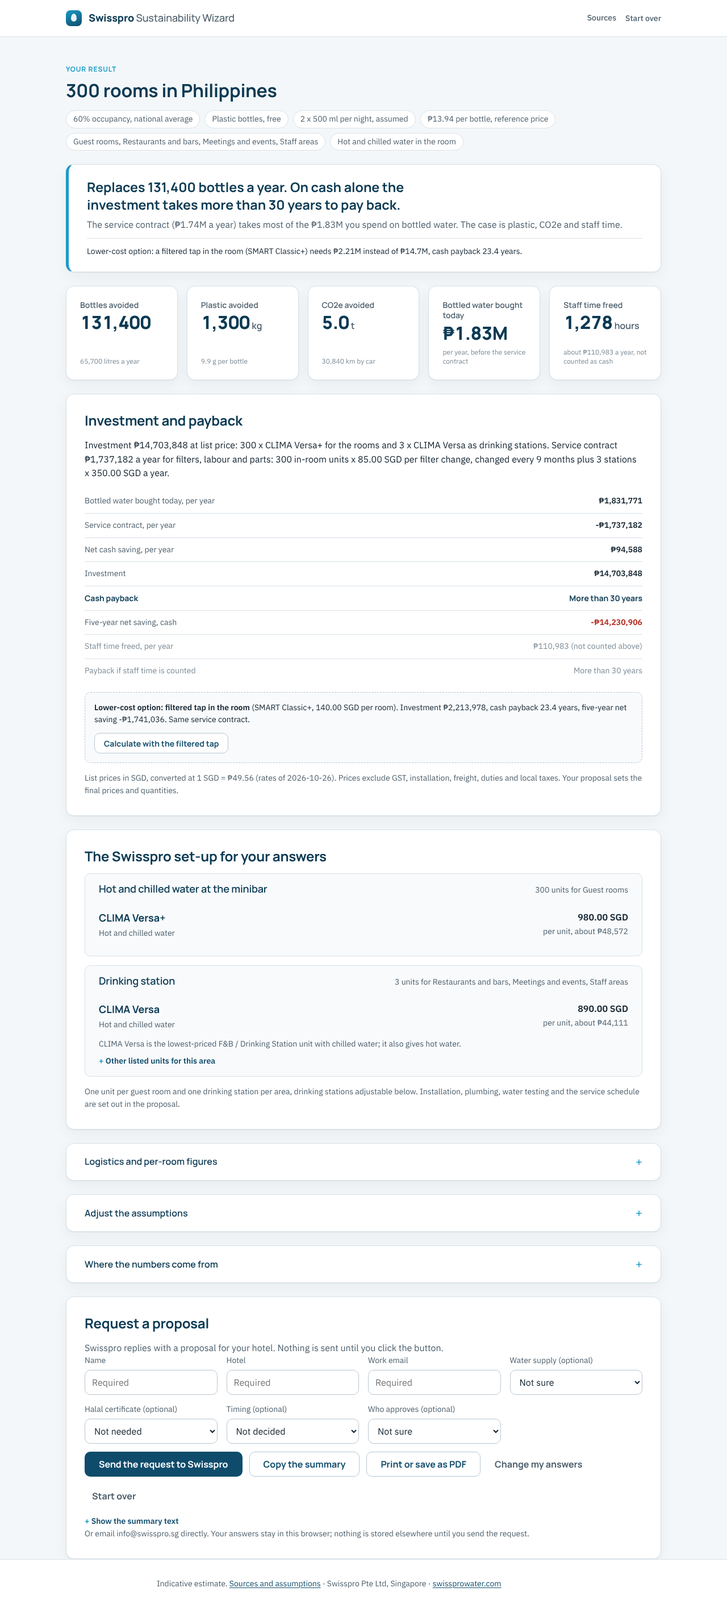
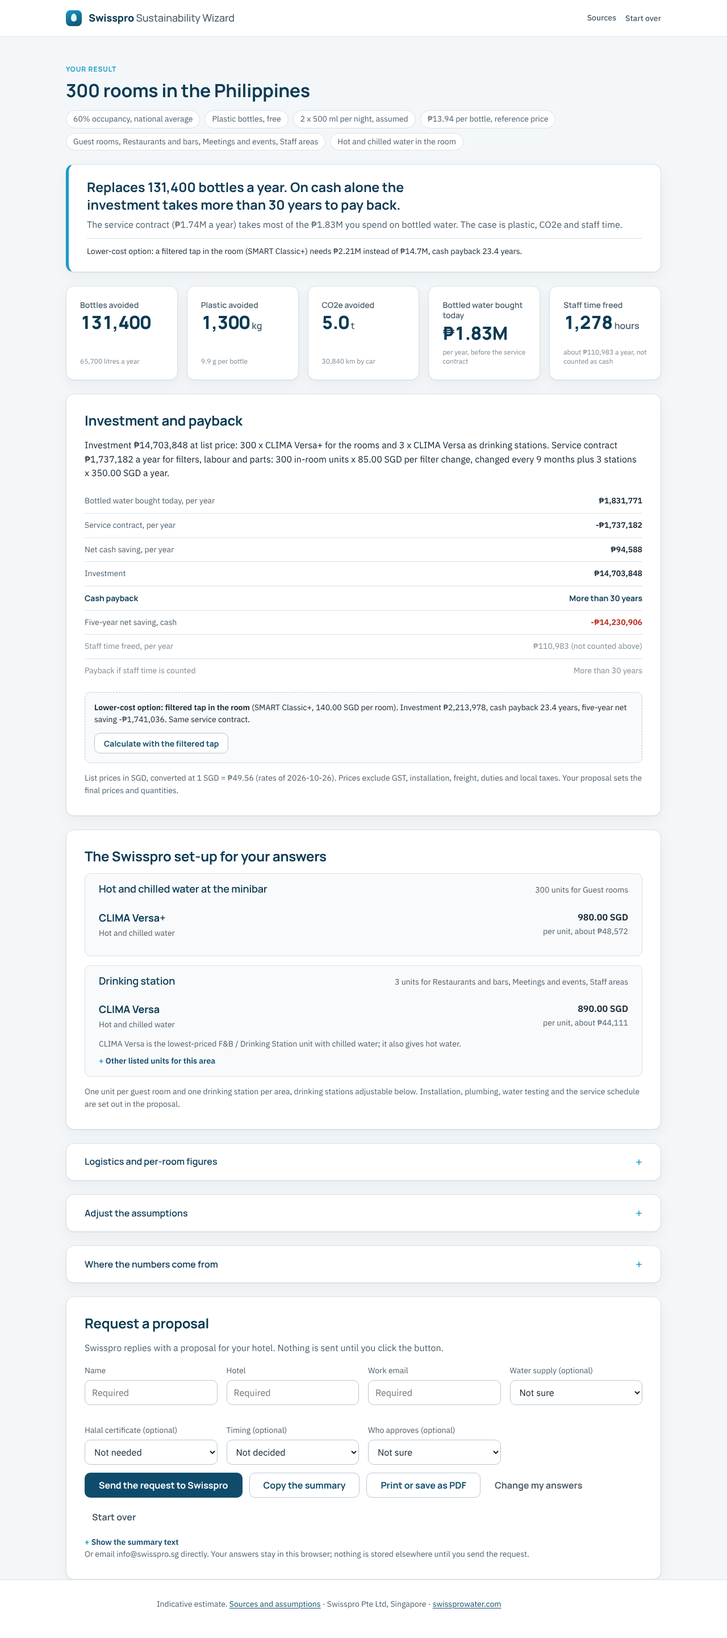
Polish after Manila approval: article for the Philippines, unclipped adjust labels, deploy folder note
Claude-Session: https://claude.ai/code/session_01APodsUFWSb661S1TCdvVpy

diff --git a/artifact/sources.html b/artifact/sources.html
@@ -217,7 +217,7 @@ details.card > .kv { width: calc(100% - 2 * var(--s-6)); margin-top: var(--s-3);
 details.fine > p, details.fine > .actions { margin-top: var(--s-3); }
 .adjust { display: grid; grid-template-columns: repeat(auto-fill, minmax(220px, 1fr)); gap: var(--s-4); }
 .adjust > div { display: grid; gap: var(--s-2); align-content: start; min-width: 0; }
-.adjust label { font-size: var(--fs-sm); color: var(--ink-2); display: block; line-height: 1.3; white-space: nowrap; overflow: hidden; text-overflow: ellipsis; }
+.adjust label { font-size: var(--fs-sm); color: var(--ink-2); display: block; line-height: 1.3; min-height: 2.6em; display: flex; align-items: flex-end; }
 .adjust-4 { grid-template-columns: repeat(4, minmax(0, 1fr)); }
 @media (max-width: 860px) { .adjust-4 { grid-template-columns: repeat(2, minmax(0, 1fr)); } }
 @media (max-width: 460px) { .adjust-4 { grid-template-columns: 1fr; } }
@@ -388,8 +388,8 @@ details.fine summary { font-weight: 600; }
 
     /* ------------------------------------------------------------------ labour */
     working_hours_per_fte_year: { value: 2080, unit: 'hours per full-time employee per year', kind: 'assumption', label: 'Hours per full-time equivalent', note: '40 hours x 52 weeks; used to convert monthly wages to hourly (2080 / 12 = 173.3 h per month) and hours to FTE. Statutory weeks in the region are 40 to 45 h.' },
-    minutes_per_room_per_day_default: { value: 1, unit: 'minutes of housekeeping time per occupied room per day', kind: 'assumption', label: 'Bottle handling time per occupied room', note: 'No published figure exists. Covers restocking bottles from the trolley, removing empties and reloading the trolley. Adjustable (0.5 to 3 min).' },
-    minutes_per_carton_default: { value: 2, unit: 'minutes of receiving, storing and distributing time per carton', kind: 'assumption', label: 'Handling time per carton', note: 'Receiving the delivery, moving cartons to the store and up to floor pantries, opening cartons, disposing of shrink-wrap. Adjustable.' },
+    minutes_per_room_per_day_default: { value: 1, unit: 'minute(s) of housekeeping time per occupied room per day', kind: 'assumption', label: 'Bottle handling time per occupied room', note: 'No published figure exists. Covers restocking bottles from the trolley, removing empties and reloading the trolley. Adjustable (0.5 to 3 min).' },
+    minutes_per_carton_default: { value: 2, unit: 'minute(s) of receiving, storing and distributing time per carton', kind: 'assumption', label: 'Handling time per carton', note: 'Receiving the delivery, moving cartons to the store and up to floor pantries, opening cartons, disposing of shrink-wrap. Adjustable.' },
     bottles_per_room_night_default: {
       value: 2, unit: 'complimentary bottles per occupied room per night', kind: 'assumption', label: 'Bottles per occupied room-night',
       note: 'Industry case studies describe "two bottles a night" (Aquablu, Sheraton Brussels Airport) and "two 750 ml bottles per room per day" (Topia Water model). Fairmont Singapore and Swissotel The Stamford report avoiding 1.5 million bottles a year across 2,030 rooms (about 2 per room per day). All three pages unverified: https://www.aquablu.com/stories/the-future-of-hospitality-embracing-sustainability-in-hotels , https://topiawater.com/case-study-streamline-200/ , https://www.swissotel-singapore-stamford.com/the-hotel/blog/sustainability-at-fairmont-singapore-swissotel-the-stamford/'
@@ -440,7 +440,7 @@ details.fine summary { font-weight: 600; }
       ]
     },
     PH: {
-      code: 'PH', name: 'Philippines', currency: 'PHP', symbol: '₱', decimals: 2,
+      code: 'PH', name: 'the Philippines', currency: 'PHP', symbol: '₱', decimals: 2,
       fx: { value: 1 / 63.453, unit: 'USD per PHP', kind: 'sourced', status: UNVERIFIED, rule: rules.fx,
         source: { publisher: 'Bangko Sentral ng Pilipinas reference rate (via taxcalculator.com.ph)', url: 'https://taxcalculator.com.ph/exchange-rates', quote: 'US$1 = ₱63.4530 on the bulletin of 26 October 2026', year: '2026-10-26', accessed: ACCESSED } },
       occupancy: { value: 0.60, unit: 'average hotel occupancy 2025', kind: 'sourced', status: UNVERIFIED, rule: rules.occupancy,
@@ -477,7 +477,6 @@ details.fine summary { font-weight: 600; }
       minutes_per_carton_default: 'Receiving, storing and distributing one carton.',
       stock_weeks_default: 'Sets the peak number of pallets in the store and the delivery frequency.',
       working_hours_per_fte_year: '40 hours x 52 weeks.',
-      cheap_water_threshold_usd: 'Below this price the result page leads with efficiency instead of cost.'
     };
     var h = '<h2>Calculation factors</h2>';
     Object.keys(F.factors).forEach(function (k) {
@@ -489,7 +488,7 @@ details.fine summary { font-weight: 600; }
     h = '<h2>Market reference values</h2><p class="small muted">Used when you answer "Not sure". Occupancy: the newest official national figure for the latest full year. Labour: the statutory minimum wage in force, so the staff-time value is conservative. Bottle price: the lowest published carton price of a national brand in 500 or 600 ml bottles. Exchange rate: one published US-dollar rate per currency on a reference date in late October 2026.</p>';
     F.marketOrder.filter(function (code) { return code !== 'OTHER'; }).forEach(function (code) {
       var c = F.countries[code];
-      h += '<div class="factor"><h3>' + esc(c.name) + ' (' + esc(c.currency) + ')</h3>';
+      h += '<div class="factor"><h3>' + esc(c.name.charAt(0).toUpperCase() + c.name.slice(1)) + ' (' + esc(c.currency) + ')</h3>';
       h += '<p><strong>Exchange rate:</strong> ' + val(1 / c.fx.value, c.currency + ' per USD') + '</p>' + src(c.fx.source);
       h += '<p><strong>Occupancy:</strong> ' + val(Math.round(c.occupancy.value * 1000) / 10, '%, ' + (c.occupancy.unit || '')) + '</p>' + src(c.occupancy.source);
       h += '<p><strong>Labour cost reference:</strong> ' + val(c.wageMonthly.value, c.wageMonthly.unit) + (c.wageMonthly.label ? ', ' + esc(c.wageMonthly.label) : '') + '</p>' + src(c.wageMonthly.source);
@@ -545,7 +544,6 @@ details.fine summary { font-weight: 600; }
       minutes_per_carton_default: 'Receiving, storing and distributing one carton.',
       stock_weeks_default: 'Sets the peak number of pallets in the store and the delivery frequency.',
       working_hours_per_fte_year: '40 hours x 52 weeks.',
-      cheap_water_threshold_usd: 'Below this price the result page leads with efficiency instead of cost.'
     };
     var h = '<h2>Calculation factors</h2>';
     Object.keys(F.factors).forEach(function (k) {
@@ -557,7 +555,7 @@ details.fine summary { font-weight: 600; }
     h = '<h2>Market reference values</h2><p class="small muted">Used when you answer "Not sure". Occupancy: the newest official national figure for the latest full year. Labour: the statutory minimum wage in force, so the staff-time value is conservative. Bottle price: the lowest published carton price of a national brand in 500 or 600 ml bottles. Exchange rate: one published US-dollar rate per currency on a reference date in late October 2026.</p>';
     F.marketOrder.filter(function (code) { return code !== 'OTHER'; }).forEach(function (code) {
       var c = F.countries[code];
-      h += '<div class="factor"><h3>' + esc(c.name) + ' (' + esc(c.currency) + ')</h3>';
+      h += '<div class="factor"><h3>' + esc(c.name.charAt(0).toUpperCase() + c.name.slice(1)) + ' (' + esc(c.currency) + ')</h3>';
       h += '<p><strong>Exchange rate:</strong> ' + val(1 / c.fx.value, c.currency + ' per USD') + '</p>' + src(c.fx.source);
       h += '<p><strong>Occupancy:</strong> ' + val(Math.round(c.occupancy.value * 1000) / 10, '%, ' + (c.occupancy.unit || '')) + '</p>' + src(c.occupancy.source);
       h += '<p><strong>Labour cost reference:</strong> ' + val(c.wageMonthly.value, c.wageMonthly.unit) + (c.wageMonthly.label ? ', ' + esc(c.wageMonthly.label) : '') + '</p>' + src(c.wageMonthly.source);
@@ -716,7 +714,6 @@ details.fine summary { font-weight: 600; }
       minutes_per_carton_default: 'Receiving, storing and distributing one carton.',
       stock_weeks_default: 'Sets the peak number of pallets in the store and the delivery frequency.',
       working_hours_per_fte_year: '40 hours x 52 weeks.',
-      cheap_water_threshold_usd: 'Below this price the result page leads with efficiency instead of cost.'
     };
     var h = '<h2>Calculation factors</h2>';
     Object.keys(F.factors).forEach(function (k) {
@@ -728,7 +725,7 @@ details.fine summary { font-weight: 600; }
     h = '<h2>Market reference values</h2><p class="small muted">Used when you answer "Not sure". Occupancy: the newest official national figure for the latest full year. Labour: the statutory minimum wage in force, so the staff-time value is conservative. Bottle price: the lowest published carton price of a national brand in 500 or 600 ml bottles. Exchange rate: one published US-dollar rate per currency on a reference date in late October 2026.</p>';
     F.marketOrder.filter(function (code) { return code !== 'OTHER'; }).forEach(function (code) {
       var c = F.countries[code];
-      h += '<div class="factor"><h3>' + esc(c.name) + ' (' + esc(c.currency) + ')</h3>';
+      h += '<div class="factor"><h3>' + esc(c.name.charAt(0).toUpperCase() + c.name.slice(1)) + ' (' + esc(c.currency) + ')</h3>';
       h += '<p><strong>Exchange rate:</strong> ' + val(1 / c.fx.value, c.currency + ' per USD') + '</p>' + src(c.fx.source);
       h += '<p><strong>Occupancy:</strong> ' + val(Math.round(c.occupancy.value * 1000) / 10, '%, ' + (c.occupancy.unit || '')) + '</p>' + src(c.occupancy.source);
       h += '<p><strong>Labour cost reference:</strong> ' + val(c.wageMonthly.value, c.wageMonthly.unit) + (c.wageMonthly.label ? ', ' + esc(c.wageMonthly.label) : '') + '</p>' + src(c.wageMonthly.source);

diff --git a/artifact/wizard.html b/artifact/wizard.html
@@ -213,7 +213,7 @@ details.card > .kv { width: calc(100% - 2 * var(--s-6)); margin-top: var(--s-3);
 details.fine > p, details.fine > .actions { margin-top: var(--s-3); }
 .adjust { display: grid; grid-template-columns: repeat(auto-fill, minmax(220px, 1fr)); gap: var(--s-4); }
 .adjust > div { display: grid; gap: var(--s-2); align-content: start; min-width: 0; }
-.adjust label { font-size: var(--fs-sm); color: var(--ink-2); display: block; line-height: 1.3; white-space: nowrap; overflow: hidden; text-overflow: ellipsis; }
+.adjust label { font-size: var(--fs-sm); color: var(--ink-2); display: block; line-height: 1.3; min-height: 2.6em; display: flex; align-items: flex-end; }
 .adjust-4 { grid-template-columns: repeat(4, minmax(0, 1fr)); }
 @media (max-width: 860px) { .adjust-4 { grid-template-columns: repeat(2, minmax(0, 1fr)); } }
 @media (max-width: 460px) { .adjust-4 { grid-template-columns: 1fr; } }
@@ -388,8 +388,8 @@ details.fine summary { font-weight: 600; }
 
     /* ------------------------------------------------------------------ labour */
     working_hours_per_fte_year: { value: 2080, unit: 'hours per full-time employee per year', kind: 'assumption', label: 'Hours per full-time equivalent', note: '40 hours x 52 weeks; used to convert monthly wages to hourly (2080 / 12 = 173.3 h per month) and hours to FTE. Statutory weeks in the region are 40 to 45 h.' },
-    minutes_per_room_per_day_default: { value: 1, unit: 'minutes of housekeeping time per occupied room per day', kind: 'assumption', label: 'Bottle handling time per occupied room', note: 'No published figure exists. Covers restocking bottles from the trolley, removing empties and reloading the trolley. Adjustable (0.5 to 3 min).' },
-    minutes_per_carton_default: { value: 2, unit: 'minutes of receiving, storing and distributing time per carton', kind: 'assumption', label: 'Handling time per carton', note: 'Receiving the delivery, moving cartons to the store and up to floor pantries, opening cartons, disposing of shrink-wrap. Adjustable.' },
+    minutes_per_room_per_day_default: { value: 1, unit: 'minute(s) of housekeeping time per occupied room per day', kind: 'assumption', label: 'Bottle handling time per occupied room', note: 'No published figure exists. Covers restocking bottles from the trolley, removing empties and reloading the trolley. Adjustable (0.5 to 3 min).' },
+    minutes_per_carton_default: { value: 2, unit: 'minute(s) of receiving, storing and distributing time per carton', kind: 'assumption', label: 'Handling time per carton', note: 'Receiving the delivery, moving cartons to the store and up to floor pantries, opening cartons, disposing of shrink-wrap. Adjustable.' },
     bottles_per_room_night_default: {
       value: 2, unit: 'complimentary bottles per occupied room per night', kind: 'assumption', label: 'Bottles per occupied room-night',
       note: 'Industry case studies describe "two bottles a night" (Aquablu, Sheraton Brussels Airport) and "two 750 ml bottles per room per day" (Topia Water model). Fairmont Singapore and Swissotel The Stamford report avoiding 1.5 million bottles a year across 2,030 rooms (about 2 per room per day). All three pages unverified: https://www.aquablu.com/stories/the-future-of-hospitality-embracing-sustainability-in-hotels , https://topiawater.com/case-study-streamline-200/ , https://www.swissotel-singapore-stamford.com/the-hotel/blog/sustainability-at-fairmont-singapore-swissotel-the-stamford/'
@@ -440,7 +440,7 @@ details.fine summary { font-weight: 600; }
       ]
     },
     PH: {
-      code: 'PH', name: 'Philippines', currency: 'PHP', symbol: '₱', decimals: 2,
+      code: 'PH', name: 'the Philippines', currency: 'PHP', symbol: '₱', decimals: 2,
       fx: { value: 1 / 63.453, unit: 'USD per PHP', kind: 'sourced', status: UNVERIFIED, rule: rules.fx,
         source: { publisher: 'Bangko Sentral ng Pilipinas reference rate (via taxcalculator.com.ph)', url: 'https://taxcalculator.com.ph/exchange-rates', quote: 'US$1 = ₱63.4530 on the bulletin of 26 October 2026', year: '2026-10-26', accessed: ACCESSED } },
       occupancy: { value: 0.60, unit: 'average hotel occupancy 2025', kind: 'sourced', status: UNVERIFIED, rule: rules.occupancy,
@@ -1499,19 +1499,19 @@ details.fine summary { font-weight: 600; }
     var g2 = group('Investment and service');
     field(g2, 'capex', 'Investment (' + inp.currency + ')', o.capex != null ? o.capex : (pr.capexLocal != null ? Math.round(pr.capexLocal) : ''), 1, { placeholder: 'from your proposal' }, (pr.capexSource === 'user' ? 'Your figure' : (pr.capexSource === 'pricelist' ? 'List price' : 'Not in the price list')) + (pr.capexLocal != null ? ', ' + money(ctx, pr.capexLocal) : ''));
     field(g2, 'annualService', 'Service contract per year (' + inp.currency + ')', Math.round(pr.servicingLocal), 1, null, (pr.servicingSource === 'user' ? 'Your figure' : 'List price') + ', ' + money(ctx, pr.servicingLocal));
-    field(g2, 'stations', 'Drinking stations', pr.stations, 1, null, 'One per area chosen');
+    field(g2, 'stations', 'Drinking stations', pr.stations, 1, null, o.stations != null ? 'Your figure' : 'One per area chosen');
     field(g2, 'changeMonths', 'Months between filter changes', pr.months, 1, { max: 36, disabled: pr.reading === 'perChange' ? null : 'disabled' }, 'In-room units');
     var selWrap = el('div', {});
-    selWrap.appendChild(el('label', { for: 'ov-reading', text: 'In-room service price basis' }));
+    selWrap.appendChild(el('label', { for: 'ov-reading', text: 'In-room service price (' + PL.pricelist.currency.value + ')' }));
     var sel = el('select', { class: 'input', id: 'ov-reading', onchange: function (e) { o.serviceReading = e.target.value; delete o.annualService; save(); renderResults(); } });
-    var SHORT = { perChange: '85.00 ' + PL.pricelist.currency.value + ' per filter change', perYear: '85.00 ' + PL.pricelist.currency.value + ' per unit and year', perContract2y: '85.00 ' + PL.pricelist.currency.value + ' per unit and 2-year contract' };
+    var SHORT = { perChange: '85.00 per filter change', perYear: '85.00 per unit and year', perContract2y: '85.00 per 2-year contract' };
     SV.readings.forEach(function (r) { var opt = el('option', { value: r.id, text: SHORT[r.id] || r.label }); if (r.id === pr.reading) opt.selected = true; sel.appendChild(opt); });
     selWrap.appendChild(sel); selWrap.appendChild(el('span', { class: 'hint', text: 'Stations 350.00 ' + PL.pricelist.currency.value + ' a year' }));
     g2.appendChild(selWrap);
     var g3 = group('Staff time');
-    field(g3, 'minutesPerRoomPerDay', 'Minutes per room and day for bottles today', inp.minutesPerRoomPerDay, 0.5);
+    field(g3, 'minutesPerRoomPerDay', 'Minutes per room and day, bottles', inp.minutesPerRoomPerDay, 0.5);
     field(g3, 'minutesPerCarton', 'Minutes per carton', inp.minutesPerCarton, 0.5);
-    field(g3, 'newMinutesPerRoomPerDay', 'Minutes per room and day with filtered water', inp.newMinutesPerRoomPerDay, 0.5, null, 'Refilling carafes, for example');
+    field(g3, 'newMinutesPerRoomPerDay', 'Minutes per room and day, filtered', inp.newMinutesPerRoomPerDay, 0.5, null, 'Refilling carafes, for example');
     field(g3, 'wageHourly', 'Hourly labour cost (' + inp.currency + ')', Math.round(inp.wageHourly * 100) / 100, 0.1, null, ctx.n.provenance.wageHourly.kind === 'user' ? 'Your figure' : 'Minimum wage');
     field(g3, 'stockWeeks', 'Weeks of stock on site', inp.stockWeeks, 1);
     card.appendChild(el('div', { class: 'actions' }, el('button', { type: 'button', class: 'btn btn-ghost', onclick: function () { state.overrides = {}; save(); renderResults(); } }, 'Reset to the defaults')));

diff --git a/js/app.js b/js/app.js
@@ -431,19 +431,19 @@
     var g2 = group('Investment and service');
     field(g2, 'capex', 'Investment (' + inp.currency + ')', o.capex != null ? o.capex : (pr.capexLocal != null ? Math.round(pr.capexLocal) : ''), 1, { placeholder: 'from your proposal' }, (pr.capexSource === 'user' ? 'Your figure' : (pr.capexSource === 'pricelist' ? 'List price' : 'Not in the price list')) + (pr.capexLocal != null ? ', ' + money(ctx, pr.capexLocal) : ''));
     field(g2, 'annualService', 'Service contract per year (' + inp.currency + ')', Math.round(pr.servicingLocal), 1, null, (pr.servicingSource === 'user' ? 'Your figure' : 'List price') + ', ' + money(ctx, pr.servicingLocal));
-    field(g2, 'stations', 'Drinking stations', pr.stations, 1, null, 'One per area chosen');
+    field(g2, 'stations', 'Drinking stations', pr.stations, 1, null, o.stations != null ? 'Your figure' : 'One per area chosen');
     field(g2, 'changeMonths', 'Months between filter changes', pr.months, 1, { max: 36, disabled: pr.reading === 'perChange' ? null : 'disabled' }, 'In-room units');
     var selWrap = el('div', {});
-    selWrap.appendChild(el('label', { for: 'ov-reading', text: 'In-room service price basis' }));
+    selWrap.appendChild(el('label', { for: 'ov-reading', text: 'In-room service price (' + PL.pricelist.currency.value + ')' }));
     var sel = el('select', { class: 'input', id: 'ov-reading', onchange: function (e) { o.serviceReading = e.target.value; delete o.annualService; save(); renderResults(); } });
-    var SHORT = { perChange: '85.00 ' + PL.pricelist.currency.value + ' per filter change', perYear: '85.00 ' + PL.pricelist.currency.value + ' per unit and year', perContract2y: '85.00 ' + PL.pricelist.currency.value + ' per unit and 2-year contract' };
+    var SHORT = { perChange: '85.00 per filter change', perYear: '85.00 per unit and year', perContract2y: '85.00 per 2-year contract' };
     SV.readings.forEach(function (r) { var opt = el('option', { value: r.id, text: SHORT[r.id] || r.label }); if (r.id === pr.reading) opt.selected = true; sel.appendChild(opt); });
     selWrap.appendChild(sel); selWrap.appendChild(el('span', { class: 'hint', text: 'Stations 350.00 ' + PL.pricelist.currency.value + ' a year' }));
     g2.appendChild(selWrap);
     var g3 = group('Staff time');
-    field(g3, 'minutesPerRoomPerDay', 'Minutes per room and day for bottles today', inp.minutesPerRoomPerDay, 0.5);
+    field(g3, 'minutesPerRoomPerDay', 'Minutes per room and day, bottles', inp.minutesPerRoomPerDay, 0.5);
     field(g3, 'minutesPerCarton', 'Minutes per carton', inp.minutesPerCarton, 0.5);
-    field(g3, 'newMinutesPerRoomPerDay', 'Minutes per room and day with filtered water', inp.newMinutesPerRoomPerDay, 0.5, null, 'Refilling carafes, for example');
+    field(g3, 'newMinutesPerRoomPerDay', 'Minutes per room and day, filtered', inp.newMinutesPerRoomPerDay, 0.5, null, 'Refilling carafes, for example');
     field(g3, 'wageHourly', 'Hourly labour cost (' + inp.currency + ')', Math.round(inp.wageHourly * 100) / 100, 0.1, null, ctx.n.provenance.wageHourly.kind === 'user' ? 'Your figure' : 'Minimum wage');
     field(g3, 'stockWeeks', 'Weeks of stock on site', inp.stockWeeks, 1);
     card.appendChild(el('div', { class: 'actions' }, el('button', { type: 'button', class: 'btn btn-ghost', onclick: function () { state.overrides = {}; save(); renderResults(); } }, 'Reset to the defaults')));

diff --git a/js/factors.js b/js/factors.js
@@ -88,8 +88,8 @@
 
     /* ------------------------------------------------------------------ labour */
     working_hours_per_fte_year: { value: 2080, unit: 'hours per full-time employee per year', kind: 'assumption', label: 'Hours per full-time equivalent', note: '40 hours x 52 weeks; used to convert monthly wages to hourly (2080 / 12 = 173.3 h per month) and hours to FTE. Statutory weeks in the region are 40 to 45 h.' },
-    minutes_per_room_per_day_default: { value: 1, unit: 'minutes of housekeeping time per occupied room per day', kind: 'assumption', label: 'Bottle handling time per occupied room', note: 'No published figure exists. Covers restocking bottles from the trolley, removing empties and reloading the trolley. Adjustable (0.5 to 3 min).' },
-    minutes_per_carton_default: { value: 2, unit: 'minutes of receiving, storing and distributing time per carton', kind: 'assumption', label: 'Handling time per carton', note: 'Receiving the delivery, moving cartons to the store and up to floor pantries, opening cartons, disposing of shrink-wrap. Adjustable.' },
+    minutes_per_room_per_day_default: { value: 1, unit: 'minute(s) of housekeeping time per occupied room per day', kind: 'assumption', label: 'Bottle handling time per occupied room', note: 'No published figure exists. Covers restocking bottles from the trolley, removing empties and reloading the trolley. Adjustable (0.5 to 3 min).' },
+    minutes_per_carton_default: { value: 2, unit: 'minute(s) of receiving, storing and distributing time per carton', kind: 'assumption', label: 'Handling time per carton', note: 'Receiving the delivery, moving cartons to the store and up to floor pantries, opening cartons, disposing of shrink-wrap. Adjustable.' },
     bottles_per_room_night_default: {
       value: 2, unit: 'complimentary bottles per occupied room per night', kind: 'assumption', label: 'Bottles per occupied room-night',
       note: 'Industry case studies describe "two bottles a night" (Aquablu, Sheraton Brussels Airport) and "two 750 ml bottles per room per day" (Topia Water model). Fairmont Singapore and Swissotel The Stamford report avoiding 1.5 million bottles a year across 2,030 rooms (about 2 per room per day). All three pages unverified: https://www.aquablu.com/stories/the-future-of-hospitality-embracing-sustainability-in-hotels , https://topiawater.com/case-study-streamline-200/ , https://www.swissotel-singapore-stamford.com/the-hotel/blog/sustainability-at-fairmont-singapore-swissotel-the-stamford/'
@@ -140,7 +140,7 @@
       ]
     },
     PH: {
-      code: 'PH', name: 'Philippines', currency: 'PHP', symbol: '₱', decimals: 2,
+      code: 'PH', name: 'the Philippines', currency: 'PHP', symbol: '₱', decimals: 2,
       fx: { value: 1 / 63.453, unit: 'USD per PHP', kind: 'sourced', status: UNVERIFIED, rule: rules.fx,
         source: { publisher: 'Bangko Sentral ng Pilipinas reference rate (via taxcalculator.com.ph)', url: 'https://taxcalculator.com.ph/exchange-rates', quote: 'US$1 = ₱63.4530 on the bulletin of 26 October 2026', year: '2026-10-26', accessed: ACCESSED } },
       occupancy: { value: 0.60, unit: 'average hotel occupancy 2025', kind: 'sourced', status: UNVERIFIED, rule: rules.occupancy,

diff --git a/sources.html b/sources.html
@@ -44,7 +44,6 @@
       minutes_per_carton_default: 'Receiving, storing and distributing one carton.',
       stock_weeks_default: 'Sets the peak number of pallets in the store and the delivery frequency.',
       working_hours_per_fte_year: '40 hours x 52 weeks.',
-      cheap_water_threshold_usd: 'Below this price the result page leads with efficiency instead of cost.'
     };
     var h = '<h2>Calculation factors</h2>';
     Object.keys(F.factors).forEach(function (k) {
@@ -56,7 +55,7 @@
     h = '<h2>Market reference values</h2><p class="small muted">Used when you answer "Not sure". Occupancy: the newest official national figure for the latest full year. Labour: the statutory minimum wage in force, so the staff-time value is conservative. Bottle price: the lowest published carton price of a national brand in 500 or 600 ml bottles. Exchange rate: one published US-dollar rate per currency on a reference date in late October 2026.</p>';
     F.marketOrder.filter(function (code) { return code !== 'OTHER'; }).forEach(function (code) {
       var c = F.countries[code];
-      h += '<div class="factor"><h3>' + esc(c.name) + ' (' + esc(c.currency) + ')</h3>';
+      h += '<div class="factor"><h3>' + esc(c.name.charAt(0).toUpperCase() + c.name.slice(1)) + ' (' + esc(c.currency) + ')</h3>';
       h += '<p><strong>Exchange rate:</strong> ' + val(1 / c.fx.value, c.currency + ' per USD') + '</p>' + src(c.fx.source);
       h += '<p><strong>Occupancy:</strong> ' + val(Math.round(c.occupancy.value * 1000) / 10, '%, ' + (c.occupancy.unit || '')) + '</p>' + src(c.occupancy.source);
       h += '<p><strong>Labour cost reference:</strong> ' + val(c.wageMonthly.value, c.wageMonthly.unit) + (c.wageMonthly.label ? ', ' + esc(c.wageMonthly.label) : '') + '</p>' + src(c.wageMonthly.source);

diff --git a/styles.css b/styles.css
@@ -210,7 +210,7 @@ details.card > .kv { width: calc(100% - 2 * var(--s-6)); margin-top: var(--s-3);
 details.fine > p, details.fine > .actions { margin-top: var(--s-3); }
 .adjust { display: grid; grid-template-columns: repeat(auto-fill, minmax(220px, 1fr)); gap: var(--s-4); }
 .adjust > div { display: grid; gap: var(--s-2); align-content: start; min-width: 0; }
-.adjust label { font-size: var(--fs-sm); color: var(--ink-2); display: block; line-height: 1.3; white-space: nowrap; overflow: hidden; text-overflow: ellipsis; }
+.adjust label { font-size: var(--fs-sm); color: var(--ink-2); display: block; line-height: 1.3; min-height: 2.6em; display: flex; align-items: flex-end; }
 .adjust-4 { grid-template-columns: repeat(4, minmax(0, 1fr)); }
 @media (max-width: 860px) { .adjust-4 { grid-template-columns: repeat(2, minmax(0, 1fr)); } }
 @media (max-width: 460px) { .adjust-4 { grid-template-columns: 1fr; } }

diff --git a/docs/EMBED.md b/docs/EMBED.md
@@ -1,7 +1,7 @@
 # Embedding the wizard in swissprowater.com
 
-The wizard is a static folder (`index.html`, `sources.html`, `styles.css`, `js/`, `assets/`). Copy it to the
-web server, e.g. `https://swissprowater.com/wizard/`, and embed it with an iframe in embed mode:
+The wizard is a static folder (`index.html`, `sources.html`, `styles.css`, `js/`, `assets/`). Copy only these to the
+web server (not `docs/`, `tools/`, `test/` or `artifact/`, which are internal), e.g. `https://swissprowater.com/wizard/`, and embed it with an iframe in embed mode:
 
 ```html
 <iframe id="swisspro-wizard" src="https://swissprowater.com/wizard/index.html?embed=1"
